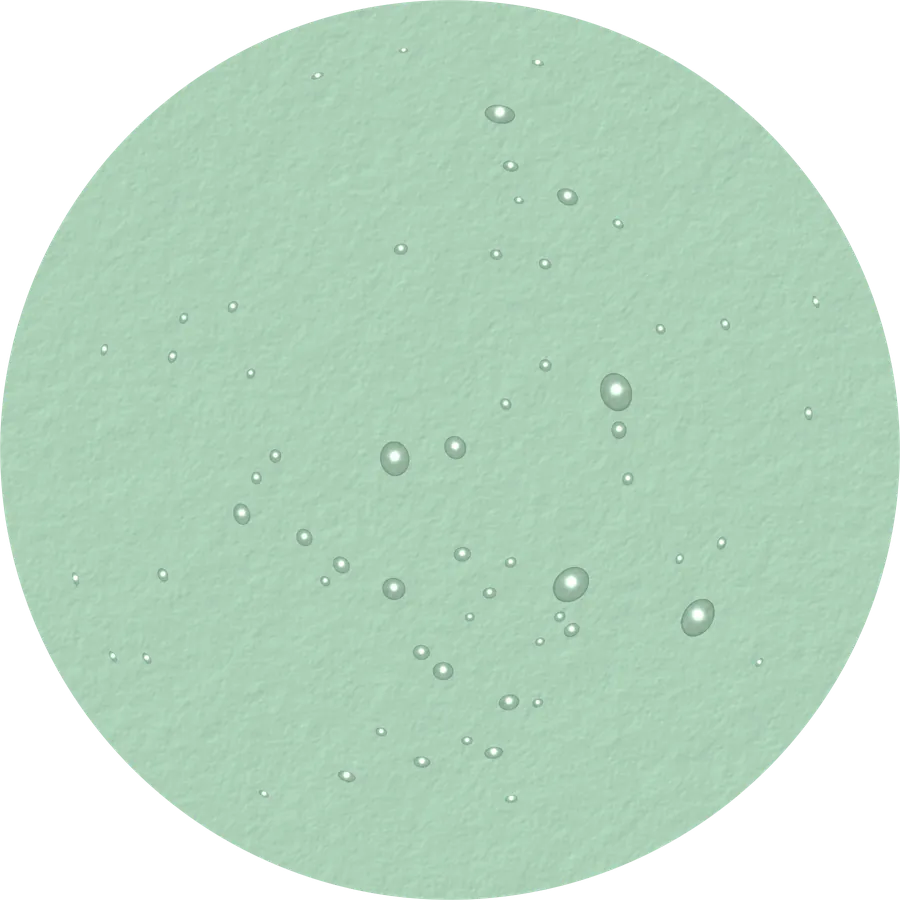
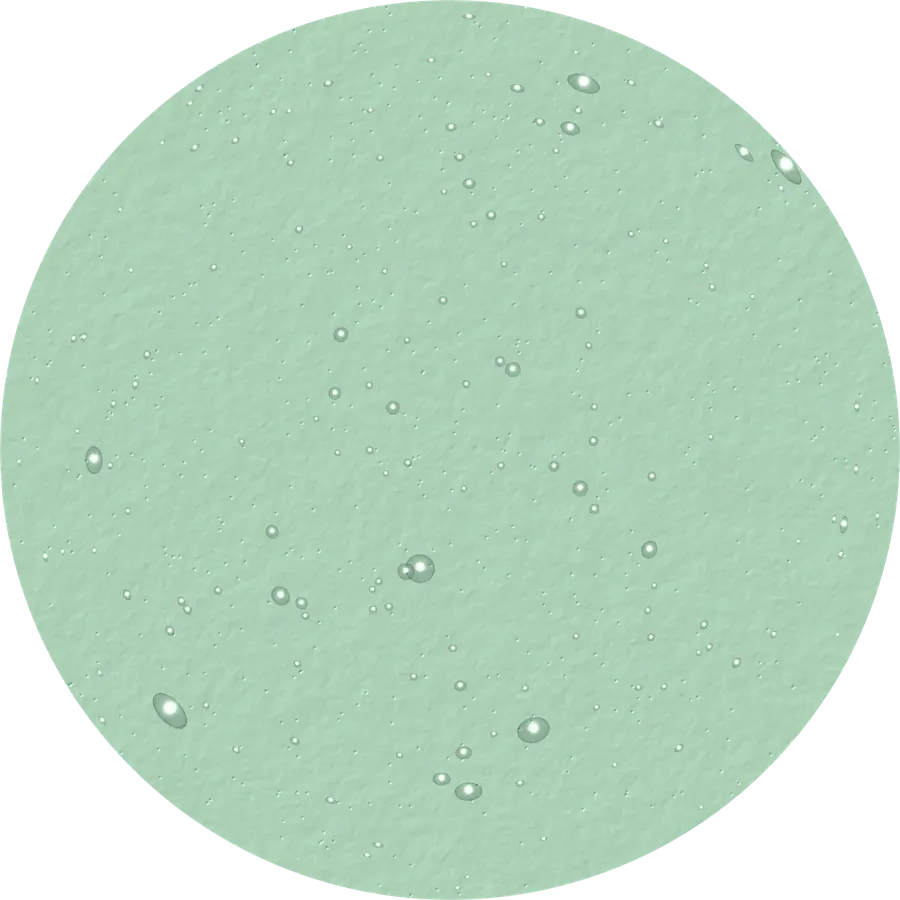
Round 257: old sphere texture minus the big green drop, help step overlap fix, lighter buy area
- Hero spheres: old texture restored; largest green drop patched out (orb-green-v4.png), blue original
- Help pages: step number circle no longer overlaps step text on phones (:not(.help__num))
- Product/set buy area: label hidden visually, lighter chips, COD chip removed from payment row; quiz unchanged
- DECISIONS 257, STATUS updated

Claude-Session: https://claude.ai/code/session_01XUtSZCHVbriow8dfrNo1jm

diff --git a/theme/assets/pdp-v2.css b/theme/assets/pdp-v2.css
@@ -200,18 +200,20 @@
 .template-product:has(.pdp--v2) .shopify-section:has(> .product-reviews) + .shopify-section > .faq { padding-block-start: 0; }
 
 /* Who it's for (round 2): the concerns, in the skin check's words */
-.v2-who { display: grid; gap: 8px; margin-block-start: 4px; }
+.v2-who { display: grid; gap: 8px; margin-block-start: 2px; }
 .v2-who__label { margin: 0; font-size: 12px; font-weight: 700; letter-spacing: .1em; text-transform: uppercase; color: var(--c-muted); }
 :lang(ar) .v2-who__label { letter-spacing: 0; text-transform: none; font-size: 13px; }
 .v2-who__list { display: flex; flex-wrap: wrap; gap: 6px; list-style: none; margin: 0; padding: 0; }
-.v2-who__list li { display: inline-flex; align-items: center; gap: 6px; min-block-size: 34px; padding: 4px 13px 4px 10px; border-radius: 99px; background: color-mix(in srgb, var(--sku) 18%, #fff); font-size: 14px; font-weight: 650; }
-.v2-who__list .icon { inline-size: 14px; block-size: 14px; color: var(--sku-deep); }
+/* the concerns as light tags (DECISIONS 257): every one kept, the heading read by screen readers only */
+.v2-who__list li { display: inline-flex; align-items: center; gap: 5px; min-block-size: 28px; padding: 2px 11px 2px 9px; border-radius: 99px; background: color-mix(in srgb, var(--sku) 13%, #fff); font-size: 13.5px; font-weight: 600; }
+.v2-who__list .icon { inline-size: 13px; block-size: 13px; color: var(--sku-deep); }
 @media (max-width: 749px) {
-  .v2-who__list li { min-block-size: 30px; padding: 3px 10px 3px 8px; font-size: 13px; gap: 5px; }
+  .v2-who__list li { min-block-size: 27px; padding: 2px 9px 2px 7px; font-size: 12.5px; gap: 4px; }
 }
 
 /* Payment design preview (pre-launch only) */
-.v2-pay { display: grid; gap: 8px; padding-block-start: 12px; border-block-start: 1px solid var(--c-line); }
+/* badges and the Paymob note share one row (DECISIONS 257) */
+.v2-pay { display: flex; flex-wrap: wrap; align-items: center; gap: 8px 14px; padding-block-start: 12px; border-block-start: 1px solid var(--c-line); }
 .v2-pay__list { display: flex; flex-wrap: wrap; align-items: center; gap: 6px; list-style: none; margin: 0; padding: 0; }
 .v2-pay__list li { display: flex; }
 .v2-pay__icon { inline-size: 38px; block-size: 24px; border-radius: 4px; box-shadow: 0 0 0 1px var(--c-line); }

diff --git a/theme/assets/help.css b/theme/assets/help.css
@@ -35,15 +35,15 @@
 .help__steps::before { content: ''; position: absolute; inset-block: 23px; inset-inline-start: 22px; border-inline-start: 2px dotted color-mix(in srgb, var(--c-ink) 28%, transparent); }
 .help__step { position: relative; display: grid; grid-template-columns: 46px minmax(0, 1fr); column-gap: 16px; row-gap: 4px; align-items: start; }
 .help__step > strong { grid-column: 2; grid-row: 1; }
-.help__step > span { grid-column: 2; grid-row: 2; }
+.help__step > span:not(.help__num) { grid-column: 2; grid-row: 2; }
 .help__step > strong { font-size: 19px; font-weight: 700; line-height: 1.3; margin-block-start: 11px; }
-.help__step > span { color: var(--c-muted); font-size: 15.5px; line-height: 1.5; text-wrap: pretty; }
+.help__step > span:not(.help__num) { color: var(--c-muted); font-size: 15.5px; line-height: 1.5; text-wrap: pretty; }
 .help__num { grid-column: 1; grid-row: 1 / span 2; display: grid; place-items: center; inline-size: 46px; block-size: 46px; border-radius: 50%; background: var(--sku, var(--c-paper)); color: var(--c-ink); font-size: 14px; font-weight: 700; font-variant-numeric: tabular-nums; letter-spacing: .04em; }
 @media (min-width: 750px) {
   .help__steps { grid-template-columns: repeat(3, minmax(0, 1fr)); gap: 32px; }
   .help__steps::before { inset-block: 22px auto; inset-inline: 23px 33%; border-inline-start: 0; border-block-start: 2px dotted color-mix(in srgb, var(--c-ink) 28%, transparent); }
   .help__step { grid-template-columns: 1fr; row-gap: 8px; }
-  .help__step > strong, .help__step > span, .help__num { grid-column: 1; grid-row: auto; }
+  .help__step > strong, .help__step > span:not(.help__num), .help__num { grid-column: 1; grid-row: auto; }
   .help__num { margin-block-end: 8px; }
   .help__step > strong { margin-block-start: 0; }
 }

diff --git a/STATUS.md b/STATUS.md
@@ -1,6 +1,6 @@
 # STATUS — Between Two Suns (Opus build)
 
-_Updated: 2026-10-26_
+_Updated: 2026-10-28_
 
 ## Current build state
 Full OS 2.0 theme is built and deployed to an **unpublished** staging theme, with store content (metafields, metaobjects, pages, Arabic translations) wired up. QA on the local preview is green. Real-storefront visual verification is still outstanding: the build sandbox cannot reach `*.myshopify.com`.
@@ -33,6 +33,8 @@ To revert the site: in Shopify, preview or rename that snapshot theme (or copy i
 - Round 2 speed shipped to staging (DECISIONS 210): Home 5.0 → 3.0 s, Ingredients 5.3 → 2.5 s, Sets 3.7 → 2.6 s, Climate 4.3 → 3.5 s, The Full Ritual 2.8 → 1.9 s (strict slow-4G phone test). Still over 2.5 s: Home, Arabic home, Climate, Routines. Options: one sphere on the home hero on phones, a lighter first climate photo, the single-sun Routines hero.
 - Day/night decision (doc "BTS · Day and night: what replaces it"); owner's rule: at most one interaction per page. Round 3 shipped to staging (DECISIONS 211): routine finder demo `/pages/routines?view=finder`, press to pour demo `/products/<single>?view=pour`, Home sets as one recommendation, set pages without the Morning/Night switch. Owner (DECISIONS 212): press to pour, one-set Home and the switch-less set page reverted to Version 1.0; finder demo fixed for phones (intro gap to the FAQ tightened, DECISIONS 213; no packs once started on phones, DECISIONS 214; rebuilt as a 3-question, no-dead-end quiz, DECISIONS 215; label-based rules, type first, full-screen app mode, DECISIONS 216; design round + "choose any" Q3 with a prescription-skincare note, DECISIONS 219, 221; **the finder is now the real Routines page, DECISIONS 222**; mini-packs demo at ?mini=1, off by default; ICI to see the rule changes and the prescription-skincare note; the separate Skin check is retired (menu item removed, every quiz link opens the finder, "Why this?" added to the result; DECISIONS 223). Owner's call: unpublish or redirect the old /pages/skin-check.
 - Creators (DECISIONS 224, 225): page rebuilt (site title style, tighter spacing, one timeline, idea cards for reviews, routines, close-ups, reels and unboxing, stepped application, pinned Apply bar, new FAQ) and a private creator kit at /pages/creators?view=creator-kit. Offer: free products chosen by skin and channel, 10% follower code, 10% commission, more for creators who keep posting. Owner's call: parcel insert card design, Shopify Collabs, real unit costs.
+- Round 255–257 (staging): hero spheres back to the old texture with the one big green drop removed (Files: orb-green-v4.png + orb-blue.png; orb-*-v3.png and tools/render-orbs3.py unused); "Ask us" removed from the buy card; product photo keeps one height on scroll; buy area lighter (label hidden on screen, lighter chips, no COD chip in the payment row, quiz unchanged). **Help pages demo** at `/pages/shipping?view=help` and `/pages/returns?view=help` (step overlap on phones fixed, DECISIONS 257). Once approved, the owner assigns the "help" template to both pages in admin.
+- Next: home page copy audit (Claude doc), waiting on the owner's three decisions and row approvals. Parked: creator videos in desktop Safari (owner to send the `&videocheck` label text).
 
 ## Shipped to staging 2026-10-18
 - Home hero is now **Orbs** (`hero-orbs`), followed by Four steps. Earlier heroes are still available at `?view=hero|light|sun|system|orbsa`.

diff --git a/DECISIONS.md b/DECISIONS.md
@@ -1067,3 +1067,14 @@ Each entry: decision · why · reversibility. Newest last.
     - **The full policy, unchanged,** as numbered sections (01–06) with an "On this page" list beside it on laptops; its tables become cards.
     - **Words and numbers:** the policy text is the page's own (admin, EN/AR); the summaries only restate it. The numbers come from the theme settings checkout copy and the FAQ use (threshold, days, COD), so they can't drift apart. Day ranges never break across lines. Arabic in the site's Egyptian register, written to read for anyone.
     - Checked on staging, laptop + phone, EN/AR: no errors, no sideways scroll; shipping 6 sections, returns 4.
+257. **Owner, after 255–256: (1) "the old one looked better, just that big one on the green looks weird"; (2) lighten the buy area "but keep quiz as is"; (3) "Ask us" removal OK; (4) help pages "there are some issues, please double check".**
+    - **Spheres: the old texture is back, with only the largest drop on the green one removed.** The 255 re-render (tools/render-orbs3.py) is no longer used. The old green image was patched (that one drop filled with the surrounding stone so it doesn't show) and uploaded to Files as **orb-green-v4.png**; the blue sphere is the original **orb-blue.png** again. hero-orbs points to these two. The theme's backup copies (orb-*-900/1200/1500.webp) were remade from them, and the glint masks (orb-*-drops.webp) are the old ones, with the removed drop taken out of the green mask so no glint sits where it was. orb-green-v3.png / orb-blue-v3.png stay in Files, unused. The Version 1.0 snapshot still uses orb-green.png / orb-blue.png, unchanged.
+    - **Help pages: the step numbers sat on top of the step text on phones** (owner's iPhone screenshot). Cause: the rule that places each step's description (`.help__step > span`) also matched the number circle, which is a span too, so both went into the same cell. Fixed with `:not(.help__num)`. The 256 check had only looked at the top of the phone page, so this time every variant was checked down to the end: phone, tablet and laptop × English and Arabic × Shipping and Returns (12 pages). None has overlapping boxes or sideways scroll, and the gaps are even.
+    - **Buy area (product and set pages) lightened; nothing a buyer needs was removed:**
+      - the "Who it's for" label is hidden on screen (screen readers still read it); the chips say it on their own;
+      - the chips are lighter: smaller (28 px, 13.5 px text), a paler step tint, smaller icons. All chips are kept (6 on The Full Ritual, 4 on Clarity Serum);
+      - the separate cash-on-delivery chip in the payment row is gone; the cash-on-delivery line under the button already says it;
+      - the payment row wraps neatly onto one or two lines;
+      - the skin quiz link is unchanged, as asked.
+      Height of the buy area, before → after: The Full Ritual phone 745 → 644 px, laptop 639 → 571; Clarity Serum phone 1104 → 1039, laptop 983 → 921.
+    - Checked: theme check 0 issues; the 12 deployed files match on staging (MD5); the live theme's home template unchanged (c828067c…).
